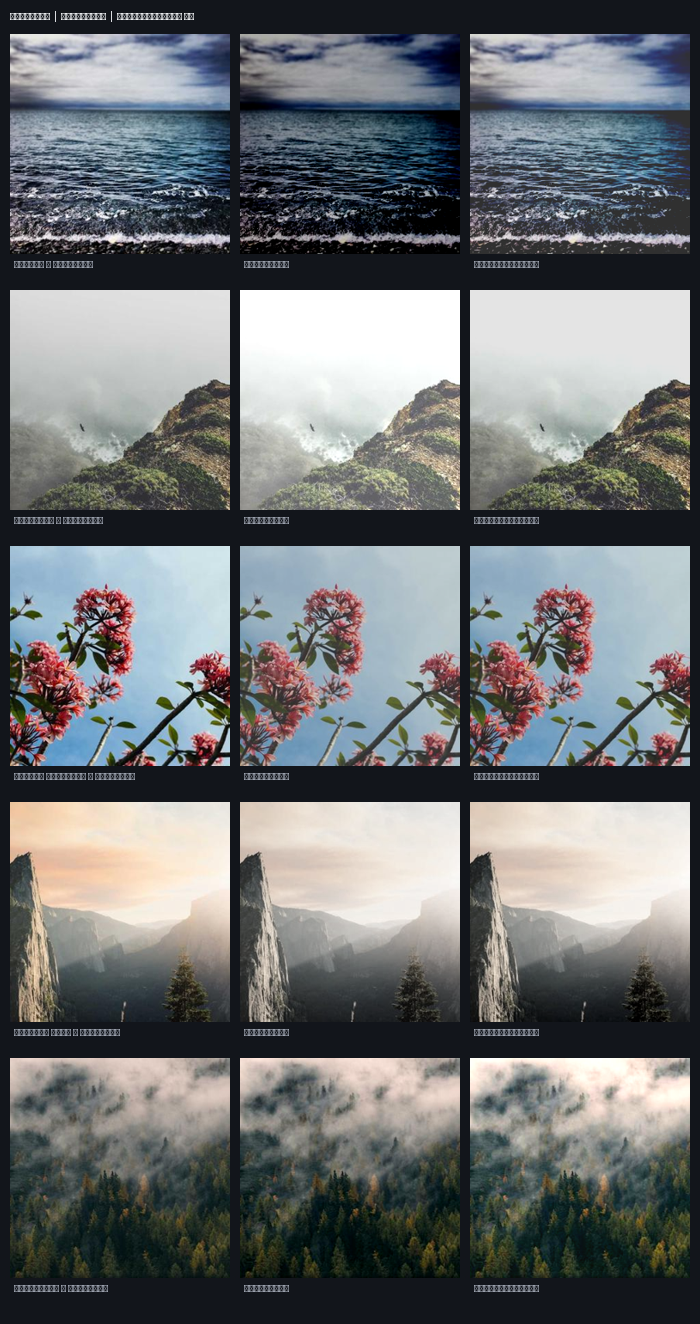
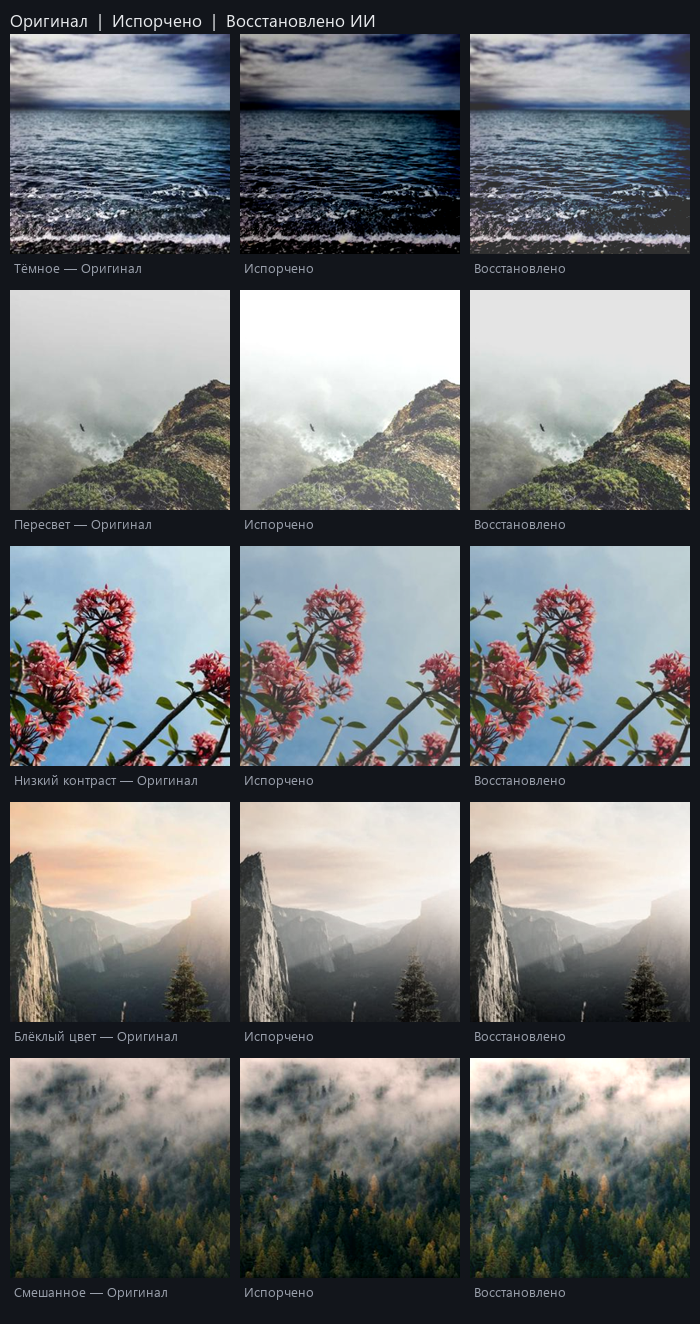
Читаемые подписи на монтажах: TrueType-шрифт с кириллицей вместо встроенного PIL

diff --git a/training/demo_real.py b/training/demo_real.py
@@ -25,9 +25,20 @@ except Exception:  # noqa: BLE001
 import glob
 
 import numpy as np
-from PIL import Image, ImageDraw
+from PIL import Image, ImageDraw, ImageFont
 import tensorflow as tf
 from tensorflow import keras
+
+
+def load_font(size):
+    """TrueType-шрифт с кириллицей: встроенный шрифт PIL рисует русский текст
+    квадратиками. Ищем системные шрифты, при неудаче — дефолт."""
+    for name in ("segoeui.ttf", "arial.ttf", "tahoma.ttf", "DejaVuSans.ttf"):
+        try:
+            return ImageFont.truetype(name, size)
+        except OSError:
+            continue
+    return ImageFont.load_default()
 
 HERE = os.path.dirname(os.path.abspath(__file__))
 PHOTOS = sorted(glob.glob(os.path.join(HERE, "data", "photos", "*.jpg")))
@@ -110,7 +121,9 @@ def main():
     H = head + len(rows) * (cell + lh + pad) + pad
     canvas = Image.new("RGB", (W, H), (18, 21, 27))
     draw = ImageDraw.Draw(canvas)
-    draw.text((pad, 10), "Настоящие фото:  Оригинал  |  Типичная проблема  |  Исправлено ИИ", fill=(232, 234, 237))
+    font_head = load_font(17)
+    font_cap = load_font(13)
+    draw.text((pad, 8), "Настоящие фото:  Оригинал  |  Типичная проблема  |  Исправлено ИИ", fill=(232, 234, 237), font=font_head)
     titles = ["Оригинал", "Проблема", "Исправлено ИИ"]
     y = head
     for name, orig, problem, fixed, p in rows:
@@ -118,8 +131,8 @@ def main():
             x = pad + j * (cell + pad)
             im = Image.fromarray((np.clip(img, 0, 1) * 255).astype("uint8")).resize((cell, cell))
             canvas.paste(im, (x, y))
-            cap = f"{name} — {titles[j]}" if j == 0 else titles[j]
-            draw.text((x + 4, y + cell + 4), cap, fill=(154, 160, 172))
+            cap = name if j == 0 else titles[j]
+            draw.text((x + 4, y + cell + 4), cap, fill=(154, 160, 172), font=font_cap)
         y += cell + lh + pad
     out = os.path.join(OUT, "real_examples.png")
     canvas.save(out)

diff --git a/training/eval.py b/training/eval.py
@@ -25,9 +25,20 @@ import json
 import urllib.request
 
 import numpy as np
-from PIL import Image, ImageDraw
+from PIL import Image, ImageDraw, ImageFont
 import tensorflow as tf
 from tensorflow import keras
+
+
+def load_font(size):
+    """TrueType-шрифт с кириллицей: встроенный шрифт PIL рисует русский текст
+    квадратиками. Ищем системные шрифты, при неудаче — дефолт."""
+    for name in ("segoeui.ttf", "arial.ttf", "tahoma.ttf", "DejaVuSans.ttf"):
+        try:
+            return ImageFont.truetype(name, size)
+        except OSError:
+            continue
+    return ImageFont.load_default()
 
 HERE = os.path.dirname(os.path.abspath(__file__))
 EVAL_DIR = os.path.join(HERE, "data", "eval_photos")
@@ -158,12 +169,14 @@ def save_montage(model, files):
     H = head + len(rows) * (cell + label_h + pad) + pad
     canvas = Image.new("RGB", (W, H), (18, 21, 27))
     draw = ImageDraw.Draw(canvas)
-    draw.text((pad, 10), "Оригинал  |  Испорчено  |  Восстановлено ИИ", fill=(232, 234, 237))
+    font_head = load_font(17)
+    font_cap = load_font(13)
+    draw.text((pad, 8), "Оригинал  |  Испорчено  |  Восстановлено ИИ", fill=(232, 234, 237), font=font_head)
 
     def put(img, x, y, title):
         im = Image.fromarray((np.clip(img, 0, 1) * 255).astype("uint8")).resize((cell, cell))
         canvas.paste(im, (x, y))
-        draw.text((x + 4, y + cell + 4), title, fill=(154, 160, 172))
+        draw.text((x + 4, y + cell + 4), title, fill=(154, 160, 172), font=font_cap)
 
     titles = ["Оригинал", "Испорчено", "Восстановлено"]
     y = head